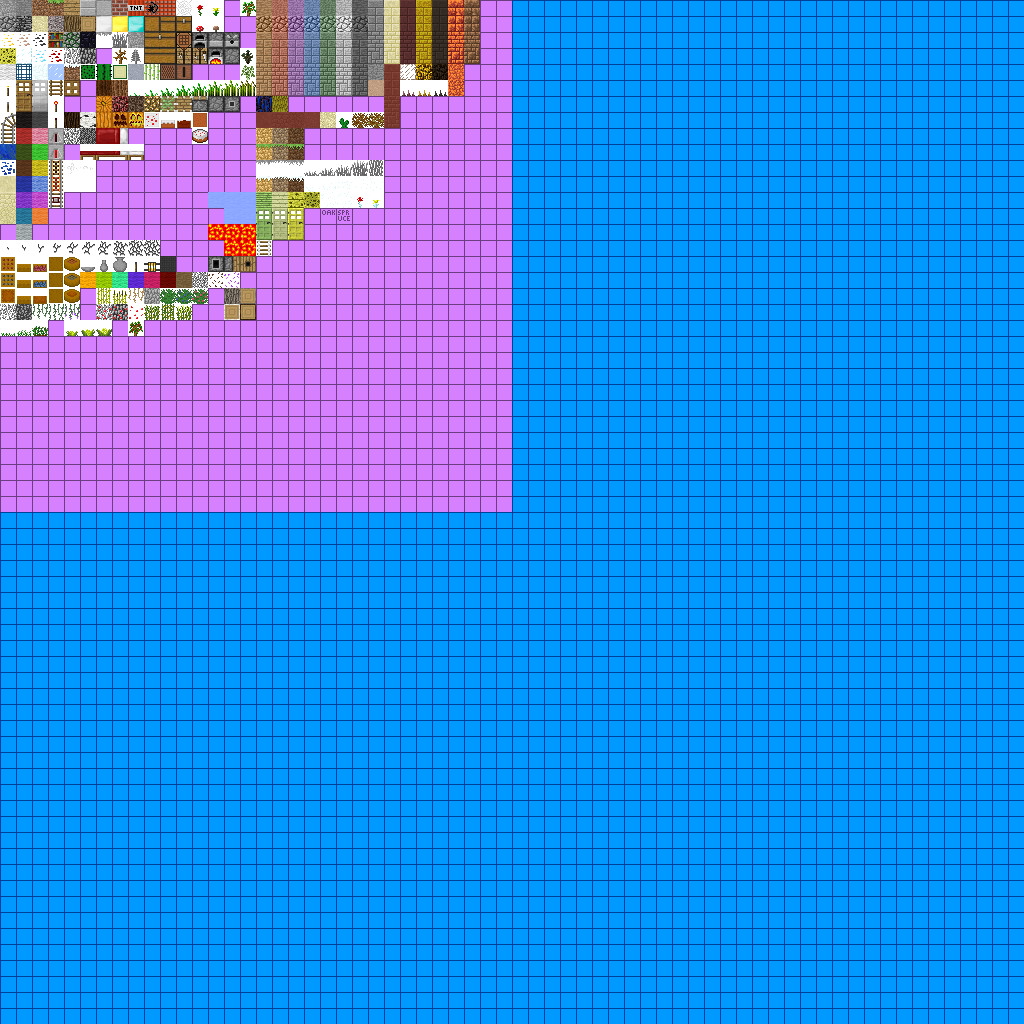
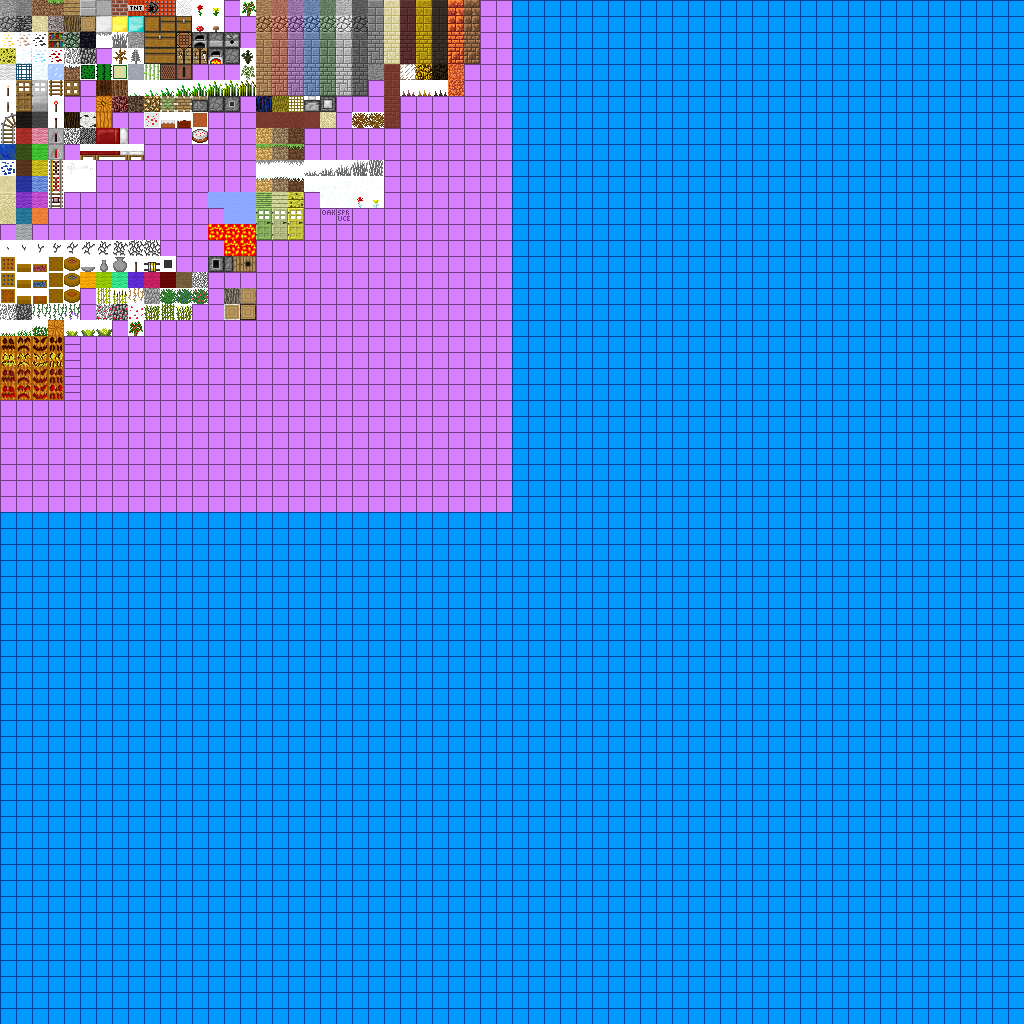
added missing textures

diff --git a/betaexpansion/RenderDart.java b/betaexpansion/RenderDart.java
@@ -1,0 +1,88 @@
+// Decompiled by Jad v1.5.8g. Copyright 2001 Pavel Kouznetsov.
+// Jad home page: http://www.kpdus.com/jad.html
+// Decompiler options: packimports(3) braces deadcode 
+
+package net.minecraft.src;
+
+import org.lwjgl.opengl.GL11;
+
+// Referenced classes of package net.minecraft.src:
+//            Render, EntityArrow, Tessellator, MathHelper, 
+//            Entity
+
+public class RenderDart extends Render
+{
+
+    public RenderDart()
+    {
+    }
+
+    public void renderArrow(EntityDart entityarrow, double d, double d1, double d2, 
+            float f, float f1)
+    {
+        if(entityarrow.prevRotationYaw == 0.0F && entityarrow.prevRotationPitch == 0.0F)
+        {
+            return;
+        }
+        loadTexture("/betaexpansion/item/darts.png");
+        GL11.glPushMatrix();
+        GL11.glTranslatef((float)d, (float)d1, (float)d2);
+        GL11.glRotatef((entityarrow.prevRotationYaw + (entityarrow.rotationYaw - entityarrow.prevRotationYaw) * f1) - 90F, 0.0F, 1.0F, 0.0F);
+        GL11.glRotatef(entityarrow.prevRotationPitch + (entityarrow.rotationPitch - entityarrow.prevRotationPitch) * f1, 0.0F, 0.0F, 1.0F);
+        Tessellator tessellator = Tessellator.instance;
+        int i = 0;
+        float f2 = 0.0F;
+        float f3 = 0.5F;
+        float f4 = (float)(0 + i * 10) / 32F;
+        float f5 = (float)(5 + i * 10) / 32F;
+        float f6 = 0.0F;
+        float f7 = 0.15625F;
+        float f8 = (float)(5 + i * 10) / 32F;
+        float f9 = (float)(10 + i * 10) / 32F;
+        float f10 = 0.05625F;
+        GL11.glEnable(32826 /*GL_RESCALE_NORMAL_EXT*/);
+        float f11 = (float)entityarrow.arrowShake - f1;
+        if(f11 > 0.0F)
+        {
+            float f12 = -MathHelper.sin(f11 * 3F) * f11;
+            GL11.glRotatef(f12, 0.0F, 0.0F, 1.0F);
+        }
+        GL11.glRotatef(45F, 1.0F, 0.0F, 0.0F);
+        GL11.glScalef(f10, f10, f10);
+        GL11.glTranslatef(-4F, 0.0F, 0.0F);
+        GL11.glNormal3f(f10, 0.0F, 0.0F);
+        tessellator.startDrawingQuads();
+        tessellator.addVertexWithUV(-7D, -2D, -2D, f6, f8);
+        tessellator.addVertexWithUV(-7D, -2D, 2D, f7, f8);
+        tessellator.addVertexWithUV(-7D, 2D, 2D, f7, f9);
+        tessellator.addVertexWithUV(-7D, 2D, -2D, f6, f9);
+        tessellator.draw();
+        GL11.glNormal3f(-f10, 0.0F, 0.0F);
+        tessellator.startDrawingQuads();
+        tessellator.addVertexWithUV(-7D, 2D, -2D, f6, f8);
+        tessellator.addVertexWithUV(-7D, 2D, 2D, f7, f8);
+        tessellator.addVertexWithUV(-7D, -2D, 2D, f7, f9);
+        tessellator.addVertexWithUV(-7D, -2D, -2D, f6, f9);
+        tessellator.draw();
+        for(int j = 0; j < 4; j++)
+        {
+            GL11.glRotatef(90F, 1.0F, 0.0F, 0.0F);
+            GL11.glNormal3f(0.0F, 0.0F, f10);
+            tessellator.startDrawingQuads();
+            tessellator.addVertexWithUV(-8D, -2D, 0.0D, f2, f4);
+            tessellator.addVertexWithUV(8D, -2D, 0.0D, f3, f4);
+            tessellator.addVertexWithUV(8D, 2D, 0.0D, f3, f5);
+            tessellator.addVertexWithUV(-8D, 2D, 0.0D, f2, f5);
+            tessellator.draw();
+        }
+
+        GL11.glDisable(32826 /*GL_RESCALE_NORMAL_EXT*/);
+        GL11.glPopMatrix();
+    }
+
+    public void doRender(Entity entity, double d, double d1, double d2, 
+            float f, float f1)
+    {
+        renderArrow((EntityDart)entity, d, d1, d2, f, f1);
+    }
+}

diff --git a/betaexpansion/RenderManager.java b/betaexpansion/RenderManager.java
@@ -52,6 +52,7 @@ public class RenderManager
         entityRenderMap.put(net.minecraft.src.Entity.class, new RenderEntity());
         entityRenderMap.put(net.minecraft.src.EntityPainting.class, new RenderPainting());
         entityRenderMap.put(net.minecraft.src.EntityArrow.class, new RenderArrow());
+        entityRenderMap.put(net.minecraft.src.EntityDart.class, new RenderDart());
         entityRenderMap.put(net.minecraft.src.EntitySnowball.class, new RenderSnowball(Item.snowball.getIconFromDamage(0)));
         entityRenderMap.put(net.minecraft.src.EntityEgg.class, new RenderSnowball(Item.egg.getIconFromDamage(0)));
         entityRenderMap.put(net.minecraft.src.EntityFireball.class, new RenderFireball());

diff --git a/betaexpansion/BEItems.java b/betaexpansion/BEItems.java
@@ -75,11 +75,11 @@ public class BEItems {
 		
 		spyglass = new ItemSpyglass(20 + offset, 19, 2, "Spyglass");
 		
-        pillow = new ModItem(21 + offset, 0, 0, "Pillow");
+        pillow = new ModItem(21 + offset, 17, 4, "Pillow");
 
-        rushStock = new ModItem(22 + offset, 0, 0, "Rush Stock");
+        rushStock = new ModItem(22 + offset, 18, 4, "Rush Stock");
 
-        dart = new ModItem(23 + offset, 0, 0, "Dart");
+        dart = new ModItem(23 + offset, 16, 2, "Dart");
 
 		System.out.println(Ansi.GREEN+"Done."+Ansi.RESET);
 	}

diff --git a/betaexpansion/BlockGravel.java b/betaexpansion/BlockGravel.java
@@ -21,7 +21,7 @@ public class BlockGravel extends BlockSand
     {
         if(random.nextInt(10) == 0)
         {
-            if (random.nextInt(1) == 0){
+            if (random.nextInt(10) == 0){
                 if (random.nextInt(2) == 0){
                     return Item.gunpowder.shiftedIndex;
                 }
